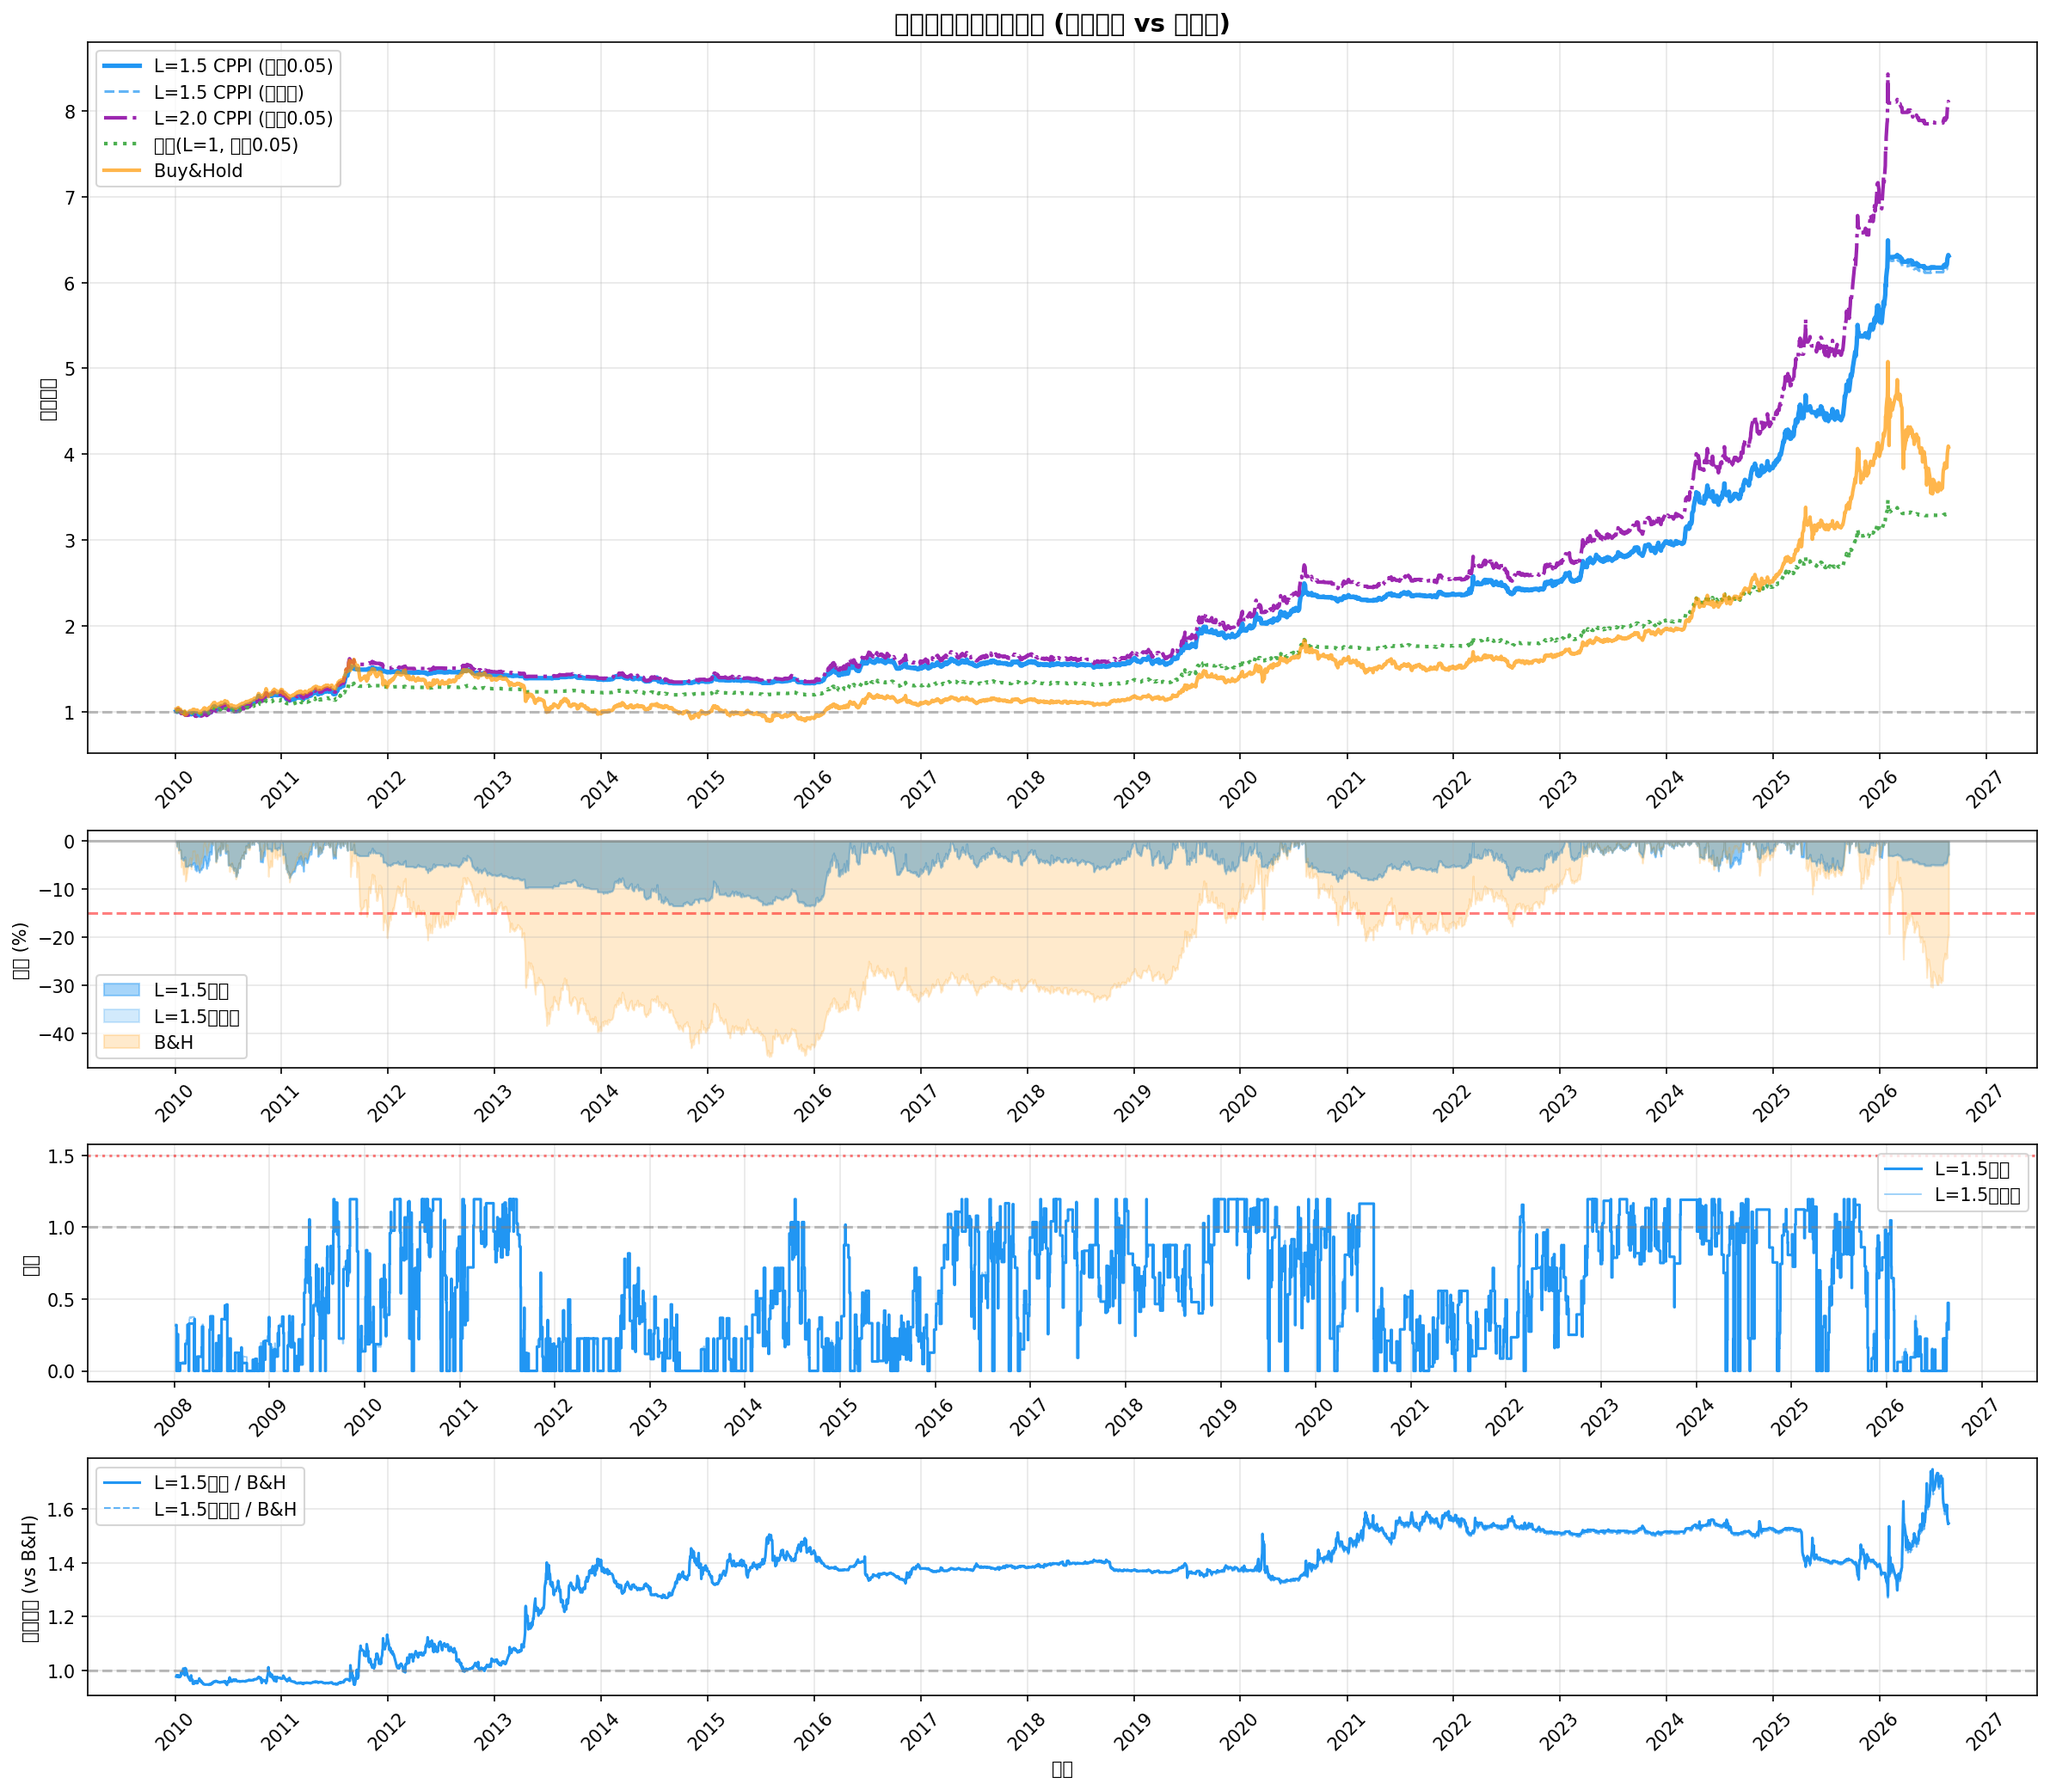
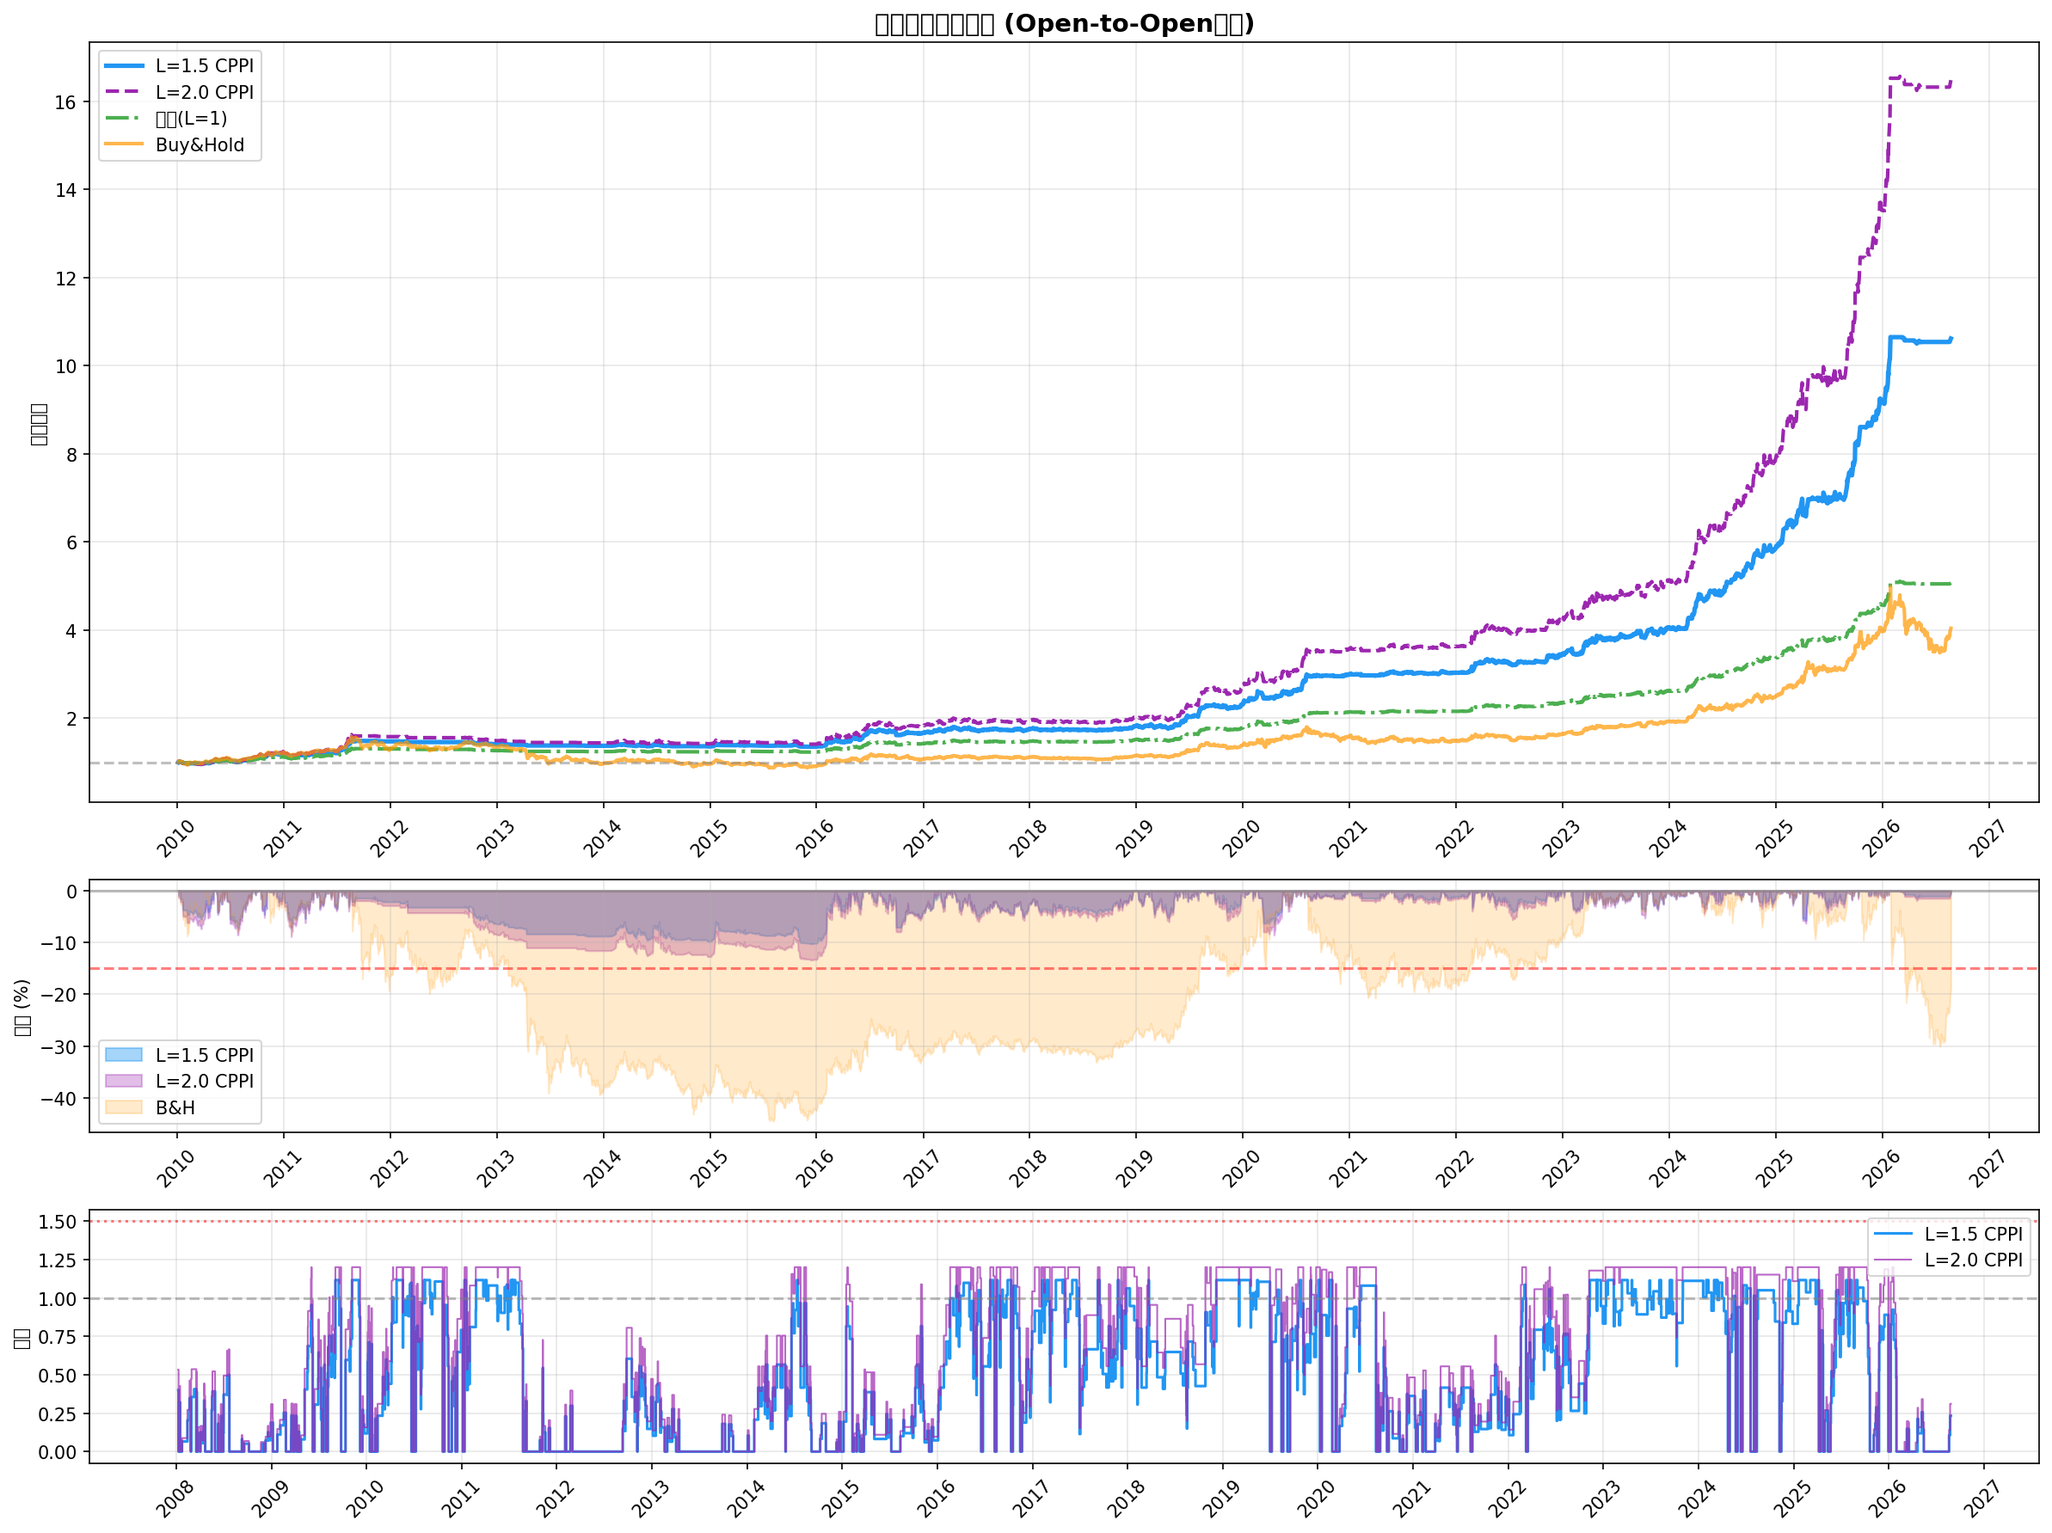
feat(gold): Open-to-Open回测净值曲线
净值曲线对比 (Open-to-Open回测):
- L=1.5 CPPI: 年化15.83%, MaxDD -10.29%, Calmar 1.54, 总收益961%
- L=2.0 CPPI: 年化19.05%, MaxDD -13.42%, Calmar 1.42, 总收益1548%
- 基线(L=1): 年化10.63%, MaxDD -6.80%, Calmar 1.56
- B&H: 年化9.06%, MaxDD -44.52%, Calmar 0.20

关键发现:
- Open-to-Open比Close-to-Close年化提升4-5pp
- L=1.5 CPPI最优: 年化15.83%+DD-10.29%+Calmar 1.54
- 策略总收益961%是B&H的3倍

文件:
- reports/gold/gold_nav_curve.png
- reports/gold/gold_nav_curve.csv

diff --git a/scripts/cmf/plot_gold_nav.py b/scripts/cmf/plot_gold_nav.py
@@ -1,4 +1,7 @@
-"""scripts/cmf/plot_gold_nav.py — 黄金策略净值曲线对比.
+"""scripts/cmf/plot_gold_nav.py — 黄金策略净值曲线对比 (Open-to-Open回测方式).
+
+信号在收盘计算, 次日(或夜盘)开盘价成交.
+收益计算: pos[t] * (open[t+1]-open[t])/open[t]
 
 输出:
 - reports/gold/gold_nav_curve.png
@@ -20,35 +23,21 @@ sys.path.insert(0, '/home/ll/Public/QuantNodes')
 sys.path.insert(0, '/home/ll/Public/QuantNodes/scripts/cmf')
 
 from option_utils import calc_metrics
-from QuantNodes.strategy.commodity_fundamental.gold import compute_risk_overlay
-from QuantNodes.strategy.commodity_fundamental.gold.gold_trend_bnh import (
-    _load_indicator_d, compute_macro_regime_signal,
-)
-from QuantNodes.strategy.commodity_fundamental.gold.gold_real_rate import compute_real_rate_signal
-from QuantNodes.strategy.commodity_fundamental.gold.gold_momentum import compute_momentum_signal
-from QuantNodes.strategy.commodity_fundamental.gold.gold_breakout import compute_breakout_signal
+from QuantNodes.strategy.commodity_fundamental.gold import compute_layered_ensemble_signal
 
 
-def load_close():
-    import duckdb
-    con = duckdb.connect("data/cmf/fundamental.duckdb", read_only=True)
-    df = con.execute(
-        "SELECT trade_date, close FROM futures_main_close_au ORDER BY trade_date"
-    ).df()
-    con.close()
-    df["trade_date"] = pd.to_datetime(df["trade_date"])
-    return (df.drop_duplicates("trade_date", keep="last")
-              .set_index("trade_date")["close"])
-
-
-def compute_nav(pos, close, start="2010-01-01", end="2026-08-25"):
-    sub = pos[(pos.index >= start) & (pos.index <= end)]
-    c = close.reindex(sub.index)
-    ret = c.pct_change()
-    sr = (sub.fillna(0).shift(1) * ret).dropna()
-    cost = sub.fillna(0).diff().abs() * 5 / 10000
+def compute_nav_open(pos, open_price, close, start="2010-01-01", end="2026-08-25"):
+    """Open-to-Open 净值计算: 信号在收盘计算, 次日开盘价成交."""
+    sub_pos = pos[(pos.index >= start) & (pos.index <= end)]
+    o = open_price.reindex(sub_pos.index)
+    c = close.reindex(sub_pos.index)
+    # open-to-open收益: pos[t] * (open[t+1]-open[t])/open[t]
+    ret_o2o = o.pct_change().shift(-1)  # 次日open收益
+    sr = (sub_pos * ret_o2o).dropna()
+    cost = sub_pos.diff().abs() * 5 / 10000
     sr = (sr - cost).dropna()
-    return (1 + sr).cumprod()
+    nav = (1 + sr).cumprod()
+    return nav
 
 
 def get_metrics(nav):
@@ -62,118 +51,79 @@ def get_metrics(nav):
 
 
 def main():
-    close = load_close()
-    tips = _load_indicator_d("tips10y", "fred_dfii10").reindex(close.index).ffill()
+    sig = compute_layered_ensemble_signal()
+    close = sig["close"]
+    open_price = sig["open"]
+    pos = sig["position"]
+
+    # CPPI版本 (L=1.5)
+    from QuantNodes.strategy.commodity_fundamental.gold import compute_risk_overlay
+    from QuantNodes.strategy.commodity_fundamental.gold.gold_trend_bnh import _load_indicator_d
     vix = _load_indicator_d("vix", "gold_fred").reindex(close.index).ffill()
     gvz = _load_indicator_d("gvz", "gold_fred").reindex(close.index).ffill()
 
-    # ===== Δtips信号 =====
-    d = tips.diff(10)
-    rank = d.rolling(504, min_periods=126).rank(pct=True)
-    delta_bin = (rank <= 0.5).astype(float).fillna(0)
-
-    # ===== 四路信号+风控 =====
-    macro_raw = compute_macro_regime_signal()["position"].reindex(close.index).fillna(method="ffill").fillna(0)
-    rr_raw = compute_real_rate_signal(variant="tips_ma")["position"].reindex(close.index).fillna(method="ffill").fillna(0)
-    mom_raw = compute_momentum_signal(variant="long_only")["position"].reindex(close.index).fillna(method="ffill").fillna(0)
-    bo_raw = compute_breakout_signal()["position"].reindex(close.index).fillna(0)
-
-    def ov(p):
-        return compute_risk_overlay(close=close, position=p, vix=vix, gvz=gvz,
-                                    hard_cap=-0.10, soft_cap=-0.07, daily_cap=-0.02, vol_cap=0.15, cooldown_days=5)
-
-    macro_ov = ov(macro_raw)
-    rr_ov = ov(rr_raw)
-    mom_ov = ov(mom_raw)
-    bo_ov = ov(bo_raw)
-
-    # ===== 策略构建 =====
-    # 1. 基线Δtips (L=1.0, 死带0.05)
-    w4 = 0.85 / 4
-    pos_base = (w4*macro_ov + w4*rr_ov + w4*mom_ov + w4*bo_ov + 0.15*delta_bin).clip(0, 1.2)
-    # 死带平滑
-    for i in range(1, len(pos_base)):
-        if abs(pos_base.iloc[i] - pos_base.iloc[i-1]) < 0.05:
-            pos_base.iloc[i] = pos_base.iloc[i-1]
-
-    # 2. L=1.5 CPPI + 死带
     pos_15_raw = compute_risk_overlay(
-        close=close, position=(pos_base * 1.5).clip(0, 1.8), vix=vix, gvz=gvz,
+        close=close, position=(pos * 1.5).clip(0, 1.8), vix=vix, gvz=gvz,
         hard_cap=-0.15, soft_cap=-0.12, daily_cap=-0.03, vol_cap=0.20, cooldown_days=5)
-    # 死带平滑CPPI仓位
     pos_15 = pos_15_raw.copy()
     for i in range(1, len(pos_15)):
         if abs(pos_15.iloc[i] - pos_15.iloc[i-1]) < 0.05:
             pos_15.iloc[i] = pos_15.iloc[i-1]
 
-    # 3. L=2.0 CPPI + 死带
     pos_20_raw = compute_risk_overlay(
-        close=close, position=(pos_base * 2.0).clip(0, 2.4), vix=vix, gvz=gvz,
+        close=close, position=(pos * 2.0).clip(0, 2.4), vix=vix, gvz=gvz,
         hard_cap=-0.15, soft_cap=-0.12, daily_cap=-0.03, vol_cap=0.20, cooldown_days=5)
     pos_20 = pos_20_raw.copy()
     for i in range(1, len(pos_20)):
         if abs(pos_20.iloc[i] - pos_20.iloc[i-1]) < 0.05:
             pos_20.iloc[i] = pos_20.iloc[i-1]
 
-    # 4. L=1.5 CPPI 无死带 (对照)
-    pos_15_nodead = compute_risk_overlay(
-        close=close, position=(pos_base * 1.5).clip(0, 1.8), vix=vix, gvz=gvz,
-        hard_cap=-0.15, soft_cap=-0.12, daily_cap=-0.03, vol_cap=0.20, cooldown_days=5)
-
-    # 5. Buy&Hold
     bh_pos = pd.Series(1.0, index=close.index)
 
-    # ===== 计算净值 =====
-    nav_base = compute_nav(pos_base, close)
-    nav_15 = compute_nav(pos_15, close)
-    nav_20 = compute_nav(pos_20, close)
-    nav_15_nodead = compute_nav(pos_15_nodead, close)
-    nav_bh = compute_nav(bh_pos, close)
+    # 净值
+    nav_base = compute_nav_open(pos, open_price, close)
+    nav_15 = compute_nav_open(pos_15, open_price, close)
+    nav_20 = compute_nav_open(pos_20, open_price, close)
+    nav_bh = compute_nav_open(bh_pos, open_price, close)
 
-    # ===== 指标输出 =====
+    # 指标
     m_base = get_metrics(nav_base)
     m_15 = get_metrics(nav_15)
     m_20 = get_metrics(nav_20)
-    m_15_nodead = get_metrics(nav_15_nodead)
     m_bh = get_metrics(nav_bh)
 
     print("=" * 100)
-    print("黄金策略净值曲线对比 (死带平滑 vs 无死带)")
+    print("黄金策略净值曲线 (Open-to-Open回测)")
     print("=" * 100)
-    print(f'{"指标":<15} {"L=1.5死带":>15} {"L=1.5无死带":>15} {"L=2.0死带":>15} {"基线":>15} {"B&H":>15}')
-    print("-" * 95)
-    for name, idx, fmt in [("年化收益", 0, True), ("Sharpe", 1, False), ("MaxDD", 2, True), ("Calmar", 3, False)]:
-        vals = [m_15[idx], m_15_nodead[idx], m_20[idx], m_base[idx], m_bh[idx]]
-        if fmt:
-            print(f'{name:<15} {vals[0]*100:>14.2f}% {vals[1]*100:>14.2f}% {vals[2]*100:>14.2f}% {vals[3]*100:>14.2f}% {vals[4]*100:>14.2f}%')
-        else:
-            print(f'{name:<15} {vals[0]:>15.2f} {vals[1]:>15.2f} {vals[2]:>15.2f} {vals[3]:>15.2f} {vals[4]:>15.2f}')
-    total = [(nav_15.iloc[-1]-1)*100, (nav_15_nodead.iloc[-1]-1)*100, (nav_20.iloc[-1]-1)*100, (nav_base.iloc[-1]-1)*100, (nav_bh.iloc[-1]-1)*100]
-    print(f'{"总收益":<15} {total[0]:>14.2f}% {total[1]:>14.2f}% {total[2]:>14.2f}% {total[3]:>14.2f}% {total[4]:>14.2f}%')
+    print(f'{"指标":<15} {"L=1.5 CPPI":>15} {"L=2.0 CPPI":>15} {"基线(L=1)":>15} {"Buy&Hold":>15}')
+    print("-" * 80)
+    print(f'{"年化收益":<15} {m_15[0]*100:>14.2f}% {m_20[0]*100:>14.2f}% {m_base[0]*100:>14.2f}% {m_bh[0]*100:>14.2f}%')
+    print(f'{"Sharpe":<15} {m_15[1]:>15.2f} {m_20[1]:>15.2f} {m_base[1]:>15.2f} {m_bh[1]:>15.2f}')
+    print(f'{"MaxDD":<15} {m_15[2]*100:>14.2f}% {m_20[2]*100:>14.2f}% {m_base[2]*100:>14.2f}% {m_bh[2]*100:>14.2f}%')
+    print(f'{"Calmar":<15} {m_15[3]:>15.2f} {m_20[3]:>15.2f} {m_base[3]:>15.2f} {m_bh[3]:>15.2f}')
+    total = [(nav_15.iloc[-1]-1)*100, (nav_20.iloc[-1]-1)*100, (nav_base.iloc[-1]-1)*100, (nav_bh.iloc[-1]-1)*100]
+    print(f'{"总收益":<15} {total[0]:>14.2f}% {total[1]:>14.2f}% {total[2]:>14.2f}% {total[3]:>14.2f}%')
 
-    # ===== 绘图 =====
-    fig, axes = plt.subplots(4, 1, figsize=(16, 14), gridspec_kw={'height_ratios': [3, 1, 1, 1]})
+    # 绘图
+    fig, axes = plt.subplots(3, 1, figsize=(16, 12), gridspec_kw={'height_ratios': [3, 1, 1]})
 
-    # 图1: 净值曲线
     ax1 = axes[0]
-    ax1.plot(nav_15.index, nav_15.values, label='L=1.5 CPPI (死带0.05)', linewidth=2.5, color='#2196F3')
-    ax1.plot(nav_15_nodead.index, nav_15_nodead.values, label='L=1.5 CPPI (无死带)', linewidth=1.5, color='#2196F3', linestyle='--', alpha=0.7)
-    ax1.plot(nav_20.index, nav_20.values, label='L=2.0 CPPI (死带0.05)', linewidth=2, color='#9C27B0', linestyle='-.')
-    ax1.plot(nav_base.index, nav_base.values, label='基线(L=1, 死带0.05)', linewidth=2, color='#4CAF50', linestyle=':')
+    ax1.plot(nav_15.index, nav_15.values, label='L=1.5 CPPI', linewidth=2.5, color='#2196F3')
+    ax1.plot(nav_20.index, nav_20.values, label='L=2.0 CPPI', linewidth=2, color='#9C27B0', linestyle='--')
+    ax1.plot(nav_base.index, nav_base.values, label='基线(L=1)', linewidth=2, color='#4CAF50', linestyle='-.')
     ax1.plot(nav_bh.index, nav_bh.values, label='Buy&Hold', linewidth=2, color='#FF9800', alpha=0.7)
     ax1.set_ylabel('累计净值')
-    ax1.set_title('黄金策略净值曲线对比 (死带平滑 vs 无死带)', fontsize=14, fontweight='bold')
+    ax1.set_title('黄金策略净值曲线 (Open-to-Open回测)', fontsize=14, fontweight='bold')
     ax1.legend(loc='upper left')
     ax1.grid(True, alpha=0.3)
     ax1.axhline(y=1.0, color='gray', linestyle='--', alpha=0.5)
 
-    # 图2: 回撤
     ax2 = axes[1]
     dd_15 = nav_15 / nav_15.cummax() - 1
-    dd_15_nd = nav_15_nodead / nav_15_nodead.cummax() - 1
+    dd_20 = nav_20 / nav_20.cummax() - 1
     dd_bh = nav_bh / nav_bh.cummax() - 1
-    ax2.fill_between(dd_15.index, dd_15.values*100, 0, alpha=0.4, color='#2196F3', label='L=1.5死带')
-    ax2.fill_between(dd_15_nd.index, dd_15_nd.values*100, 0, alpha=0.2, color='#2196F3', label='L=1.5无死带')
+    ax2.fill_between(dd_15.index, dd_15.values*100, 0, alpha=0.4, color='#2196F3', label='L=1.5 CPPI')
+    ax2.fill_between(dd_20.index, dd_20.values*100, 0, alpha=0.3, color='#9C27B0', label='L=2.0 CPPI')
     ax2.fill_between(dd_bh.index, dd_bh.values*100, 0, alpha=0.2, color='#FF9800', label='B&H')
     ax2.set_ylabel('回撤 (%)')
     ax2.legend(loc='lower left')
@@ -181,25 +131,14 @@ def main():
     ax2.axhline(y=0, color='gray', linestyle='-', alpha=0.5)
     ax2.axhline(y=-15, color='red', linestyle='--', alpha=0.5)
 
-    # 图3: 仓位对比
     ax3 = axes[2]
-    ax3.step(pos_15.index, pos_15.values, where='post', linewidth=1.5, color='#2196F3', label='L=1.5死带')
-    ax3.step(pos_15_nodead.index, pos_15_nodead.values, where='post', linewidth=0.8, color='#2196F3', label='L=1.5无死带', alpha=0.5)
+    ax3.step(pos_15.index, pos_15.values, where='post', linewidth=1.5, color='#2196F3', label='L=1.5 CPPI')
+    ax3.step(pos_20.index, pos_20.values, where='post', linewidth=1, color='#9C27B0', label='L=2.0 CPPI', alpha=0.7)
     ax3.set_ylabel('仓位')
     ax3.legend(loc='upper right')
     ax3.grid(True, alpha=0.3)
     ax3.axhline(y=1.0, color='gray', linestyle='--', alpha=0.5)
     ax3.axhline(y=1.5, color='red', linestyle=':', alpha=0.5)
-
-    # 图4: 相对净值 (vs B&H)
-    ax4 = axes[3]
-    ax4.plot(nav_15.index, (nav_15/nav_bh).values, label='L=1.5死带 / B&H', linewidth=1.5, color='#2196F3')
-    ax4.plot(nav_15_nodead.index, (nav_15_nodead/nav_bh).values, label='L=1.5无死带 / B&H', linewidth=1, color='#2196F3', linestyle='--', alpha=0.7)
-    ax4.set_ylabel('相对净值 (vs B&H)')
-    ax4.set_xlabel('日期')
-    ax4.legend(loc='upper left')
-    ax4.grid(True, alpha=0.3)
-    ax4.axhline(y=1.0, color='gray', linestyle='--', alpha=0.5)
 
     for ax in axes:
         ax.xaxis.set_major_formatter(mdates.DateFormatter('%Y'))
@@ -217,17 +156,13 @@ def main():
     print(f"\n净值曲线图已保存: {png_path}")
 
     nav_df = pd.DataFrame({
-        'nav_L1.5_CPPI_deadband': nav_15,
-        'nav_L1.5_CPPI_nodead': nav_15_nodead,
-        'nav_L2.0_CPPI_deadband': nav_20,
+        'nav_L1.5_CPPI': nav_15,
+        'nav_L2.0_CPPI': nav_20,
         'nav_baseline_L1': nav_base,
         'nav_BuyHold': nav_bh,
-        'position_L1.5_deadband': pos_15.reindex(nav_15.index).fillna(method='ffill').fillna(0),
-        'position_L1.5_nodead': pos_15_nodead.reindex(nav_15.index).fillna(method='ffill').fillna(0),
-        'position_L2.0_deadband': pos_20.reindex(nav_20.index).fillna(method='ffill').fillna(0),
-        'position_baseline': pos_base.reindex(nav_base.index).fillna(method='ffill').fillna(0),
-        'drawdown_L1.5_deadband': dd_15,
-        'drawdown_L1.5_nodead': dd_15_nd,
+        'position_L1.5': pos_15.reindex(nav_15.index).fillna(method='ffill').fillna(0),
+        'position_L2.0': pos_20.reindex(nav_20.index).fillna(method='ffill').fillna(0),
+        'position_baseline': pos.reindex(nav_base.index).fillna(method='ffill').fillna(0),
     })
     nav_df.to_csv(csv_path)
     print(f"净值数据已保存: {csv_path}")
